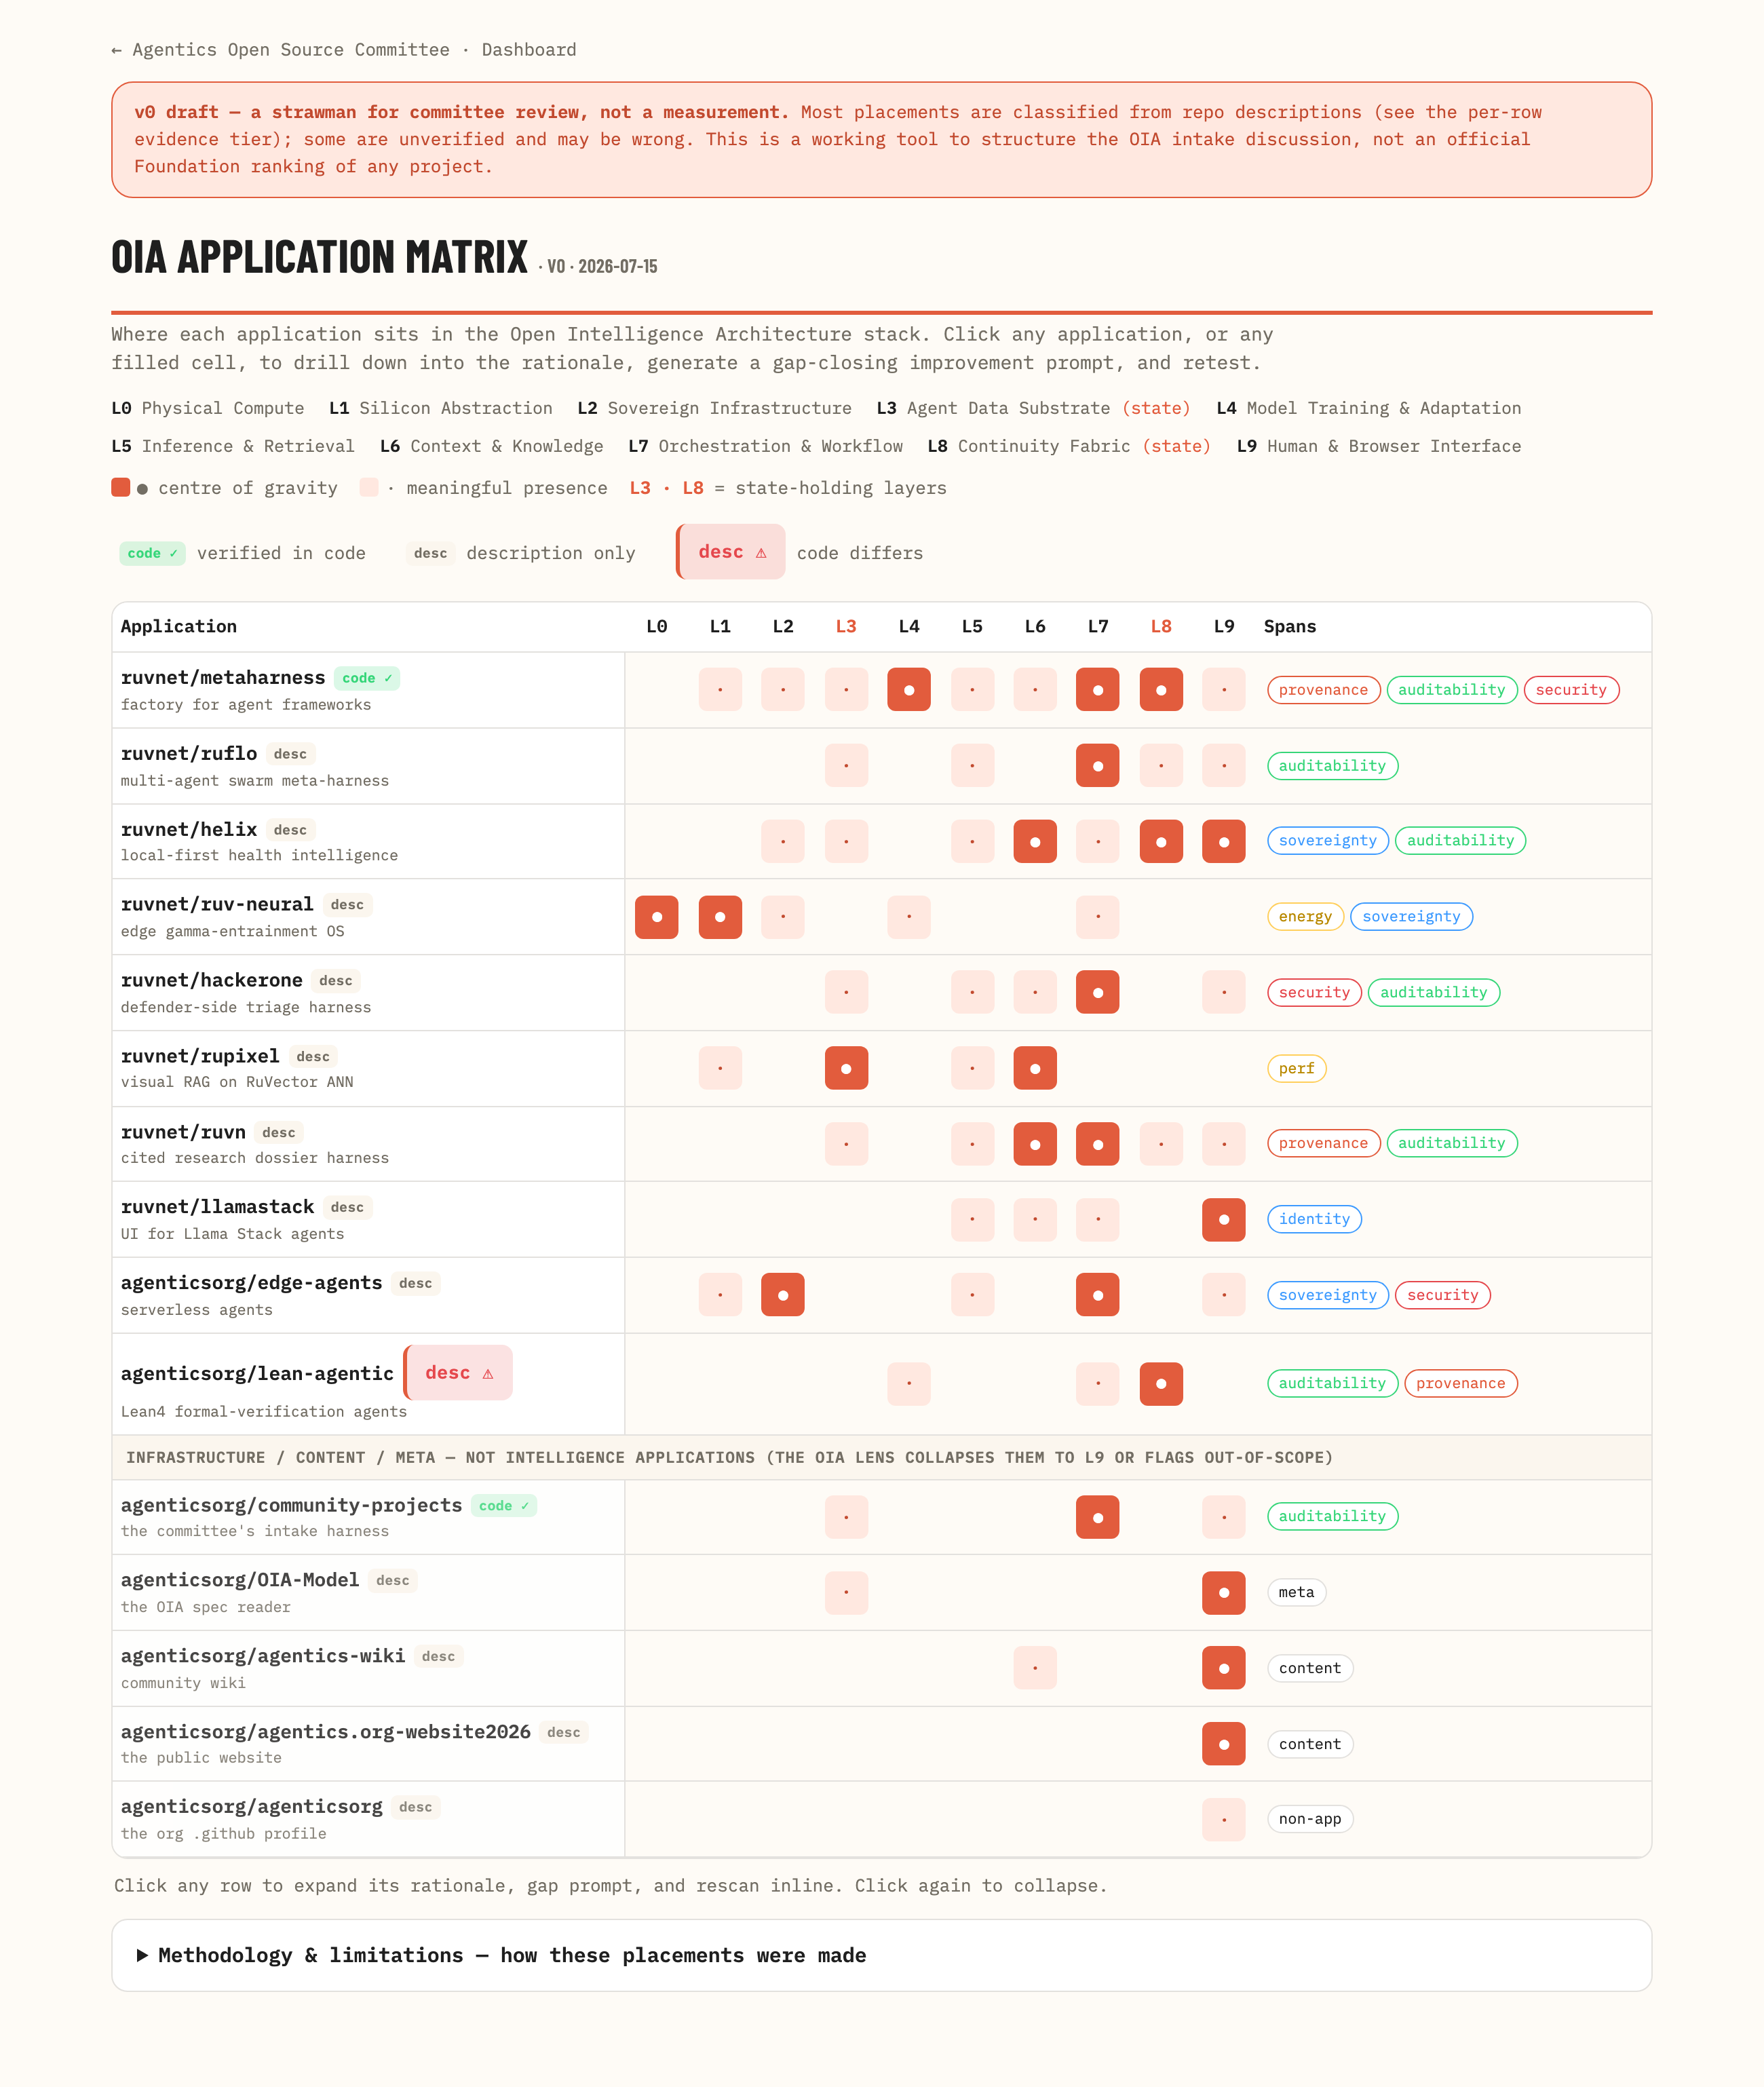
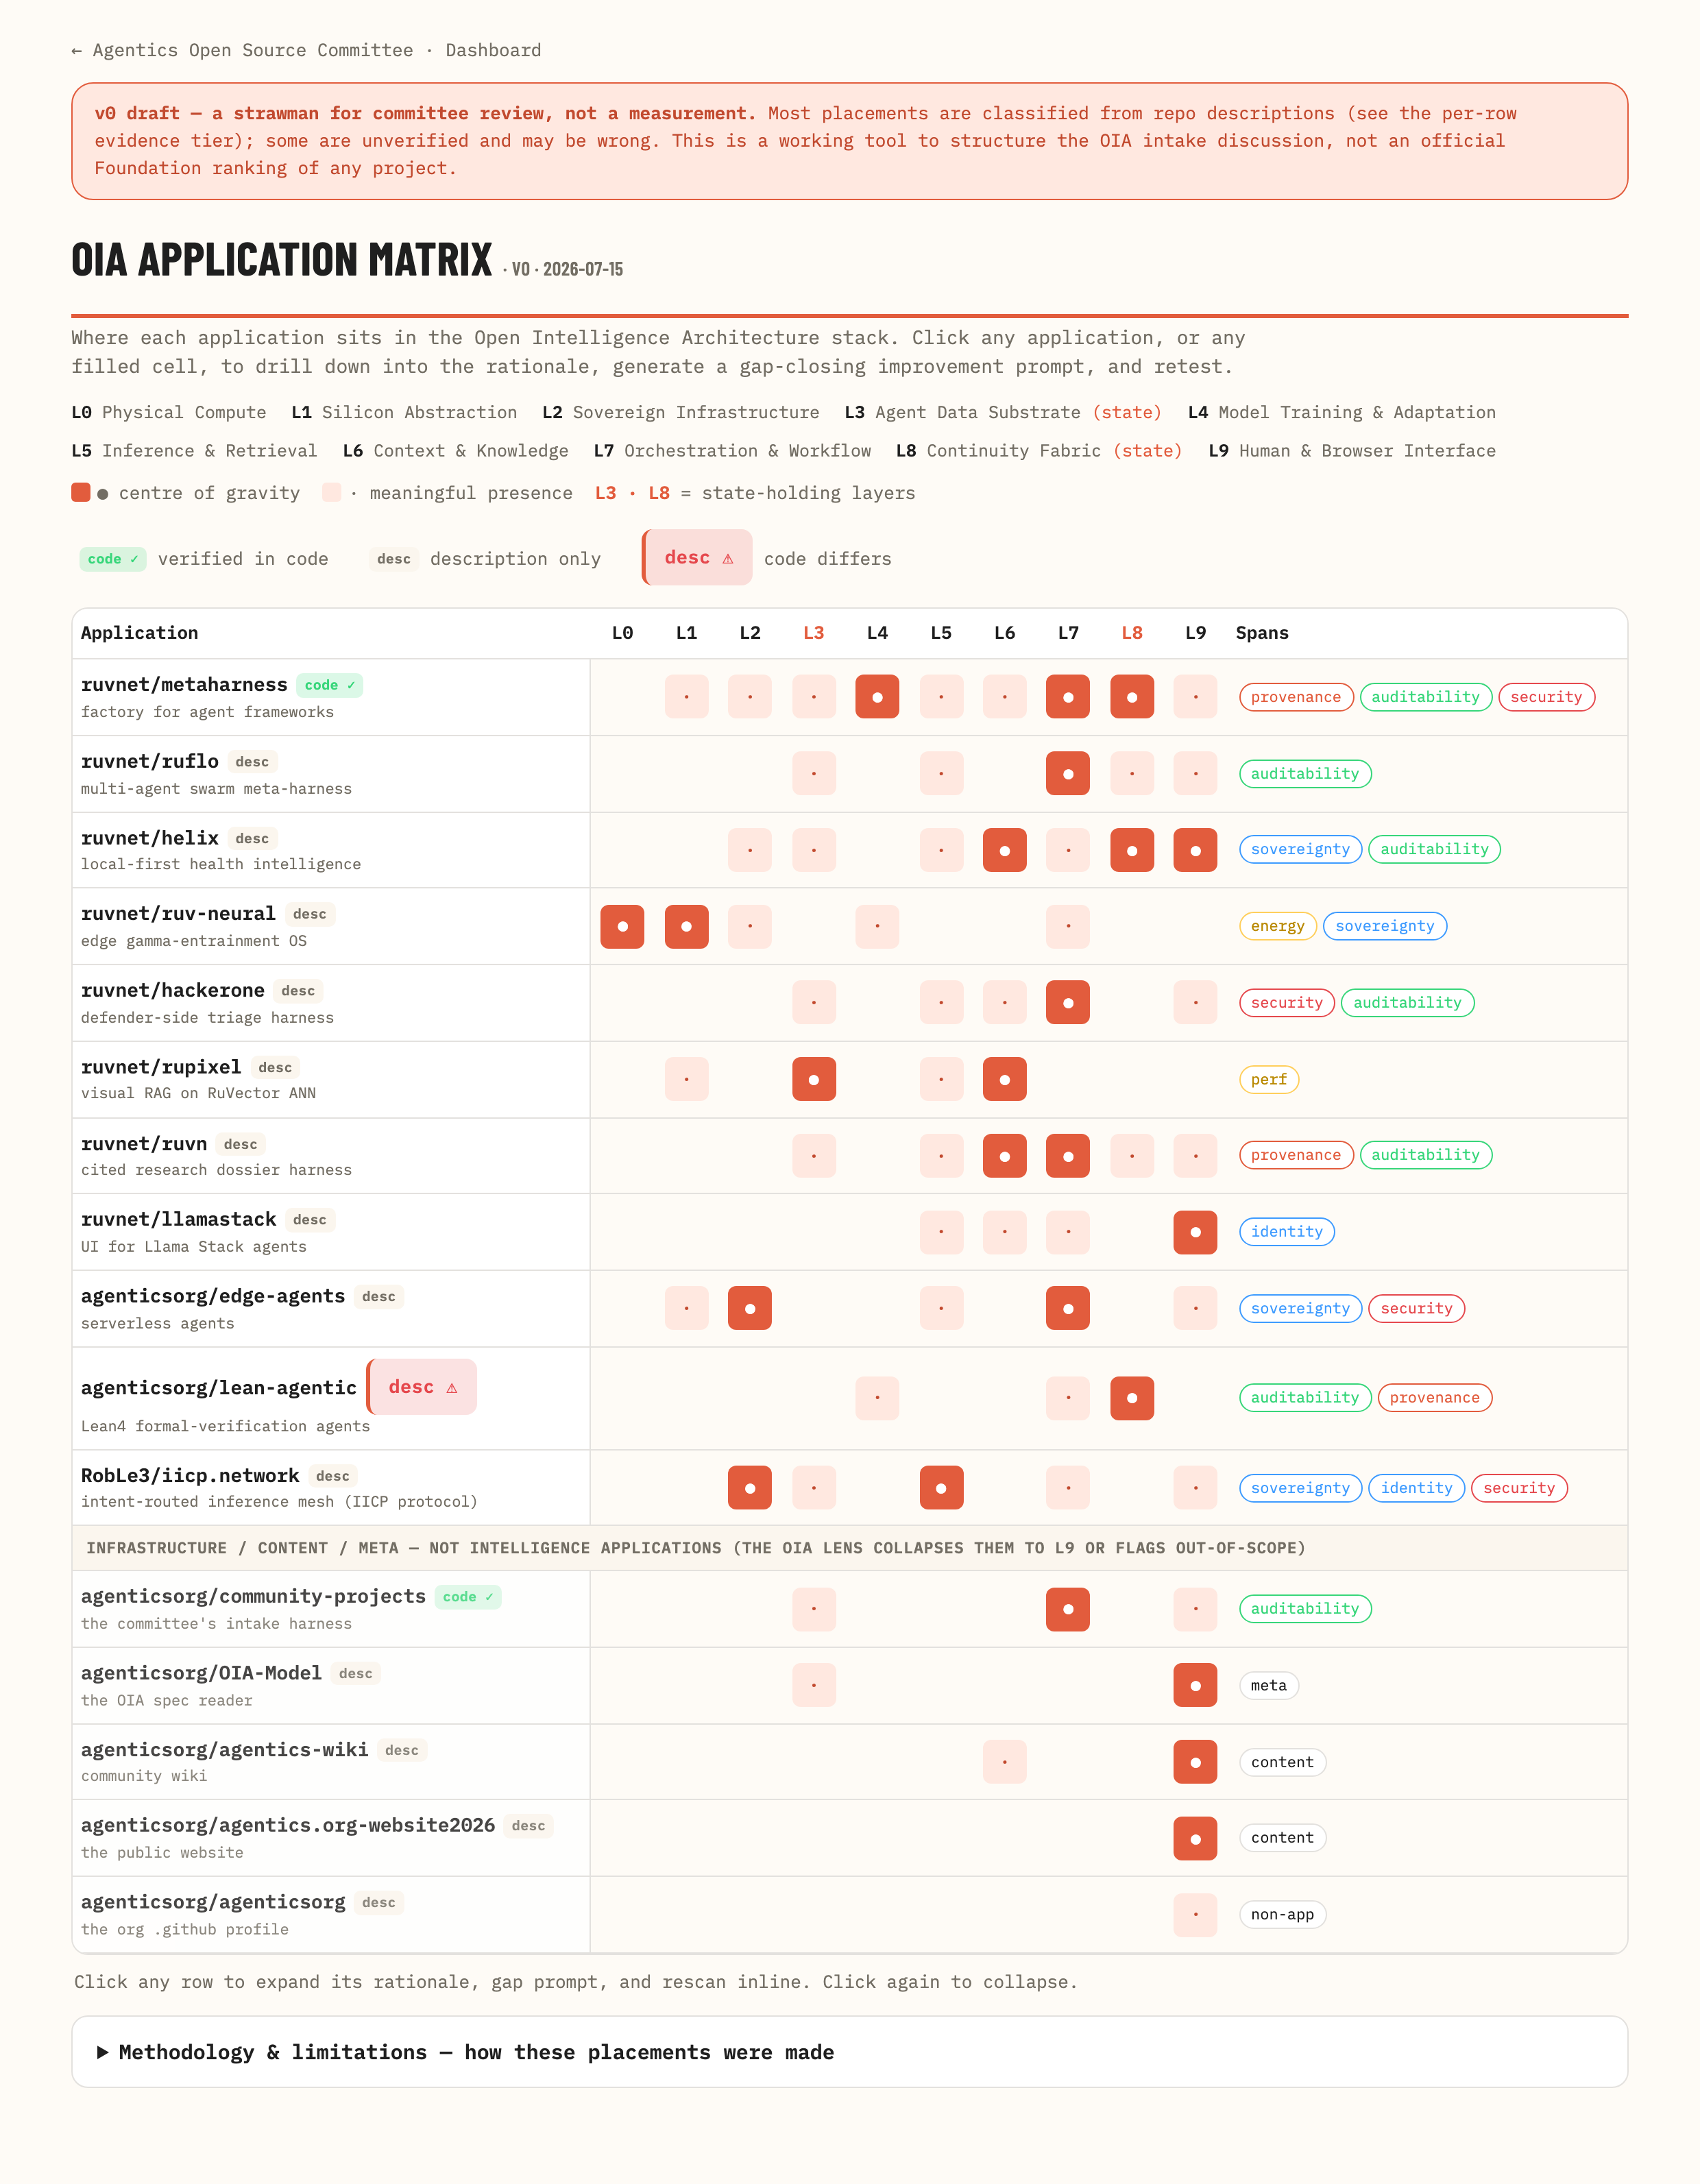
Add RobLe3/iicp.network (IICP protocol) as first external applicant
Places the Intent-based Inter-agent Communication Protocol in the OIA stack:
centre of gravity at L2 (sovereign self-hosted mesh) and L5 (intent routing /
node discovery), presence at L3/L7/L9. Strongest spans: sovereignty, identity,
security. Evidence tier: desc (published spec v1.5 + live 2026-06-05 mesh probe,
not a source audit; mesh repo invite-only, which fails the openness gate).

First non-agenticsorg/non-ruvnet row in the matrix. Gaps capture the honest
live state: discovered nodes unreachable (relay_capable:false), mesh is 3 sub-1B
toy models, DID identity unshipped, A2A/ACP bindings unimplemented.

Screenshots (01 overview / 02 drilldown / 03 gap-prompt) regenerated to show IICP.

Changed region(s): [[0.031, 0.0, 0.9315, 0.9675], [0.3415, 0.4057, 0.4347, 0.4681], [0.4657, 0.4681, 0.4968, 0.5306]]

diff --git a/docs/oia-matrix.html b/docs/oia-matrix.html
@@ -125,6 +125,9 @@ const apps=[
  ["agenticsorg/lean-agentic","Lean4 formal-verification agents",[0,0,0,0,1,0,0,1,2,0],[["auditability","aud"],["provenance","prov"]],
    {4:"formal methods over model behaviour",7:"agent execution",8:"verifiable judgment via Lean4 proof — the strongest form"},
    "Reaches L8 through formal proof — the most rigorous auditability in the set. Structurally rare and strategically interesting.","app"],
+ ["RobLe3/iicp.network","intent-routed inference mesh (IICP protocol)",[0,0,2,1,0,2,0,1,0,1],[["sovereignty","sov"],["identity","sov"],["security","sec"]],
+   {2:"decentralized mesh — operators self-host node compute, no central provider",3:"directory + intent registry (.well-known/iicp-intents.json) scores and returns capable nodes",5:"routes tasks to capable nodes by intent URN — discovery + server-side scoring is its core function",7:"sits beneath orchestration (A2A/ACP); discovery + score + circuit-breaker dispatch, complementary to MCP",9:"client SDKs (pip/npm/cargo) + node dashboard + mesh browser"},
+   "First external applicant in the set (not a ruvnet/agenticsorg repo). Directory + public client SDK connect today; the live mesh (probed 2026-06-05) was 3 sub-1B models on one host, all unreachable to third parties (relay_capable:false) — intent routing works on paper, task delivery does not yet. The credits economy is now live in /stats.","app"],
  ["agenticsorg/community-projects","the committee's intake harness",[0,0,0,1,0,0,0,2,0,1],[["auditability","aud"]],
    {3:"approved-projects registry",7:"RFC-001 governance agent + intake state machine",9:"Pages committee dashboard"},
    "The committee's own harness — an instance of the metaharness pattern applied to governance, not an intelligence application. This is the thing that RUNS the funnel.","infra"],
@@ -145,6 +148,7 @@ const EVID={
  "ruvnet/metaharness":{t:"code",n:"packages/ confirms it: darwin-mode (safe learning, L8), host-* adapters + harness (L7), evals-* (L4). Code backs the placement."},
  "agenticsorg/community-projects":{t:"code",n:"lib/ inspected directly this session: state-machine.js + workflow-guards.js confirm the L7 governance placement."},
  "agenticsorg/lean-agentic":{t:"warn",n:"CODE CONTRADICTS DESCRIPTION: the repo is ~1.2MB of Rust with a single src/ dir, not a Lean4 proof system. The L8 formal-verification placement is description-tier and likely overstated pending real code."},
+ "RobLe3/iicp.network":{t:"desc",n:"Classified from the published IICP spec v1.5 (iicp.network/spec) + a live directory/mesh probe on 2026-06-05 — richer than a bare README, but not a source audit. The mesh repo (RobLe3/iicp.network) is invite-only; the client SDK repos (iicp-client-python/-typescript/-rust) are public. A client-side rescan will 404 on the private mesh repo — expected, and itself a governance signal (fails the openness gate)."},
 };
 function evOf(name){return EVID[name]||{t:"desc",n:"Classified from the repo description/README only. Not yet verified against code."};}
 const EVLBL={code:"code ✓",warn:"desc ⚠",desc:"desc",auto:"auto ⟳"};
@@ -164,6 +168,7 @@ const GAPS={
  "agenticsorg/agentics-wiki":["Not an intelligence application. If it is meant to become one, define which OIA layer it targets; otherwise it stays content at L6/L9."],
  "agenticsorg/agentics.org-website2026":["Not an intelligence application, a website at L9. No OIA remediation applies unless it hosts an agent surface."],
  "agenticsorg/agenticsorg":["Out of scope, the org profile README. No OIA remediation applies."],
+ "RobLe3/iicp.network":["Reachability is the critical gap: discovered nodes advertise score 0.91 but time out to third parties (relay_capable:false). Ship a working relay / port-forward path so a discovered node is actually connectable — discovery that returns unreachable nodes routes to nothing.","Real supply: the mesh was 3 sub-1B toy models on one host. The now-live credit schedule should pull operators; success is mesh_health leaving 'impaired' with >1B models across independent hosts.","Identity (its rare-but-shallow span): Phase 3 W3C DID is specified but Phase 1 ships only bearer node_token. Land DID-based node identity so routing is attributable, not just authenticated.","Openness / qualification gate: the mesh repo is invite-only, which fails the committee's public-repo + issue-tracker requirement. Open a public reference/spec repo with issue tracker + ADRs.","Substantiate the stack claim: the A2A and ACP bindings are scoped but unimplemented (#202). Implement them so 'sits between orchestration and transport' is code-true, not doc-true."],
 };
 function appByName(n){return apps.find(a=>a[0]===n);}
 function genPrompt(name){